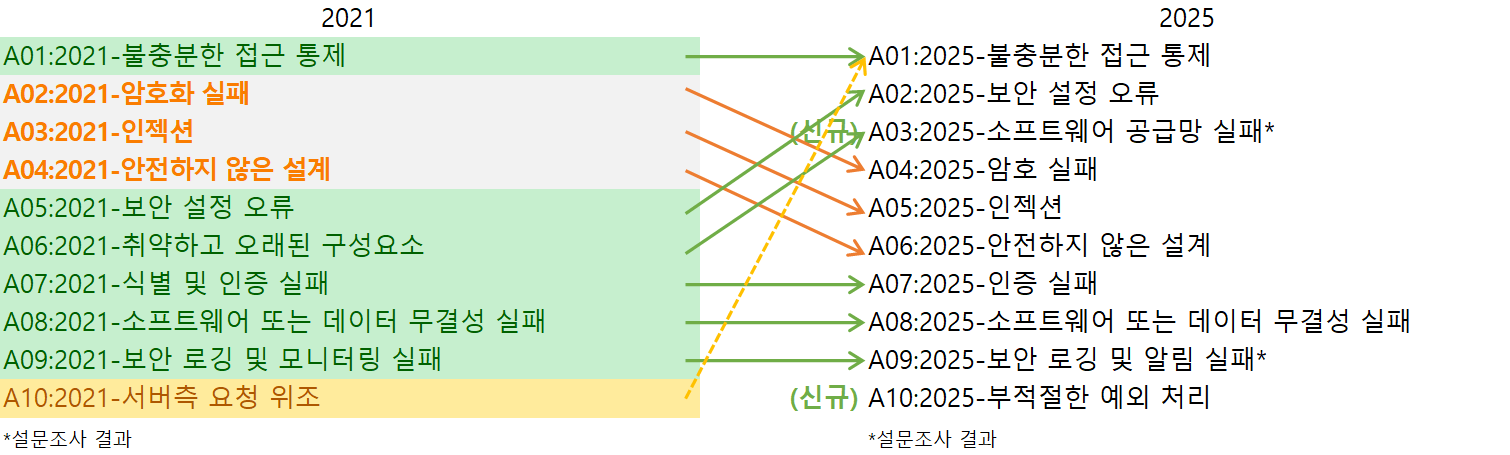
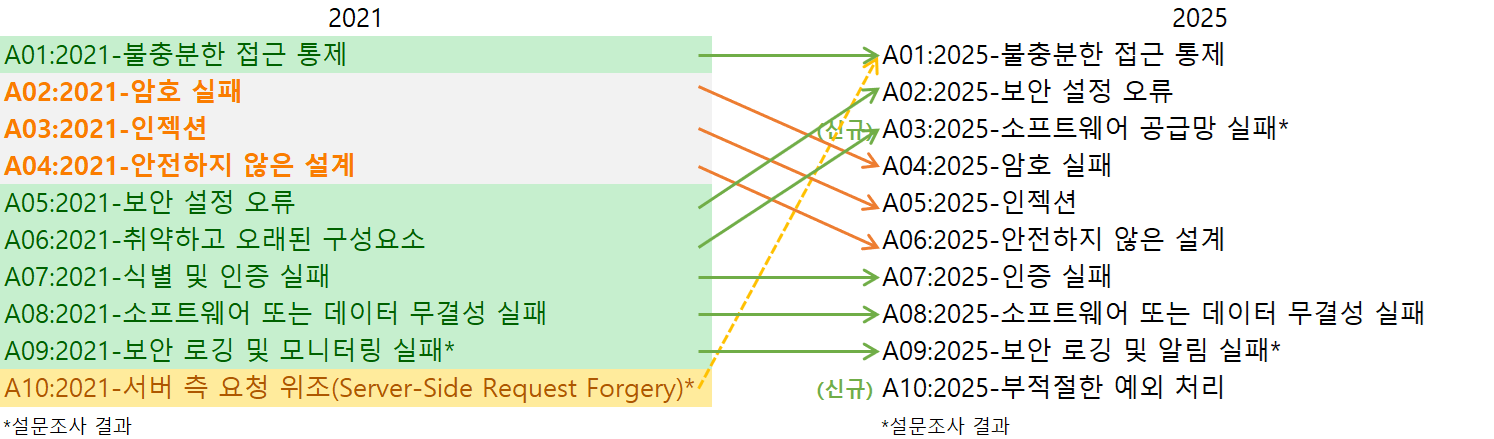
Update Top10Mapping image and Korean translations

diff --git a/2025/docs/ko/0x00_2025-Introduction.md b/2025/docs/ko/0x00_2025-Introduction.md
@@ -28,7 +28,7 @@ OWASP Top 10의 8번째 버전에 오신 것을 환영합니다!
 
 2025년 Top 10의 변화로는 두 개의 신규 카테고리와 하나의 카테고리가 통합되었다. 저희는 가능한 한 증상보다는 근본 원인에 초점을 두었다. 소프트웨어 엔지니어링과 소프트웨어 보안의 복잡성을 고려할 때, 어느 정도 중복이 없는 10개의 카테고리를 만드는 것은 사실상 불가능했다.
 
-![Mapping](../assets/2025-mappings.png)
+![Mapping](./assets/Top10Mapping-ko.PNG)
 
 * **[A01:2025 - 충분한 접근 제어](A01_2025-Broken_Access_Control.md)**은 가장 심각한 애플리케이션 보안 위험으로 1위를 유지하였다. 제공된 데이터에 따르면 테스트된 애플리케이션의 평균 3.73%가 이 카테고리에 해당하는 40개 CWE(Common Weakness Enumeration) 중 하나 이상을 가지고 있었다. 위 그림의 점선으로 표시된 바와 같이, Server-Side Request Forgery(SSRF)가 이 카테고리에 통합되었다. 
 * **[A02:2025 - 보안 설정 오류](A02_2025-Security_Misconfiguration.md)**은 2021년 5위에서 2025년 2위로 상승하였다. 이번 주기에 제공된 데이터에서는 설정 오류가 더 많이 발견되었으며, 테스트된 애플리케이션 중 3.00%가 이 카테고리에 해당하는 16개 CWE 중 하나 이상을 포함하고 있었다. 이는 소프트웨어 엔지니어링에서 애플리케이션의 동작이 설정에 기반하는 비중이 지속적으로 증가하고 있는 현황을 반영하는 결과이다.
